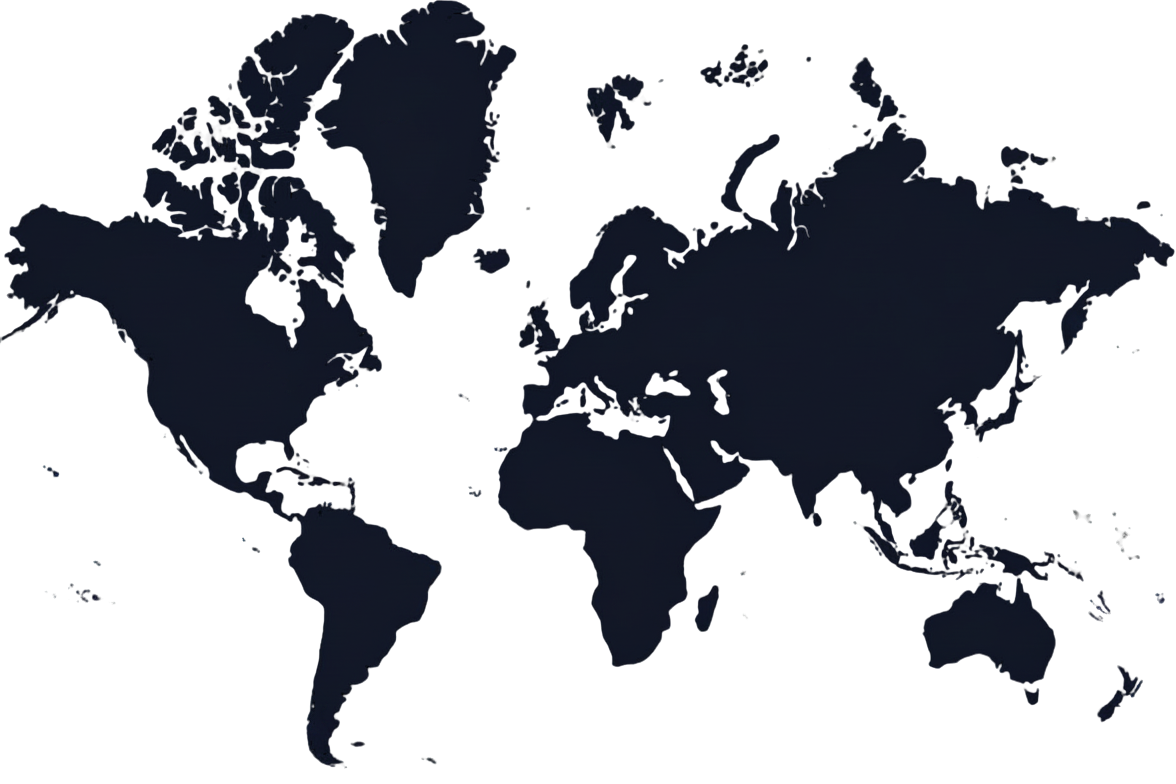
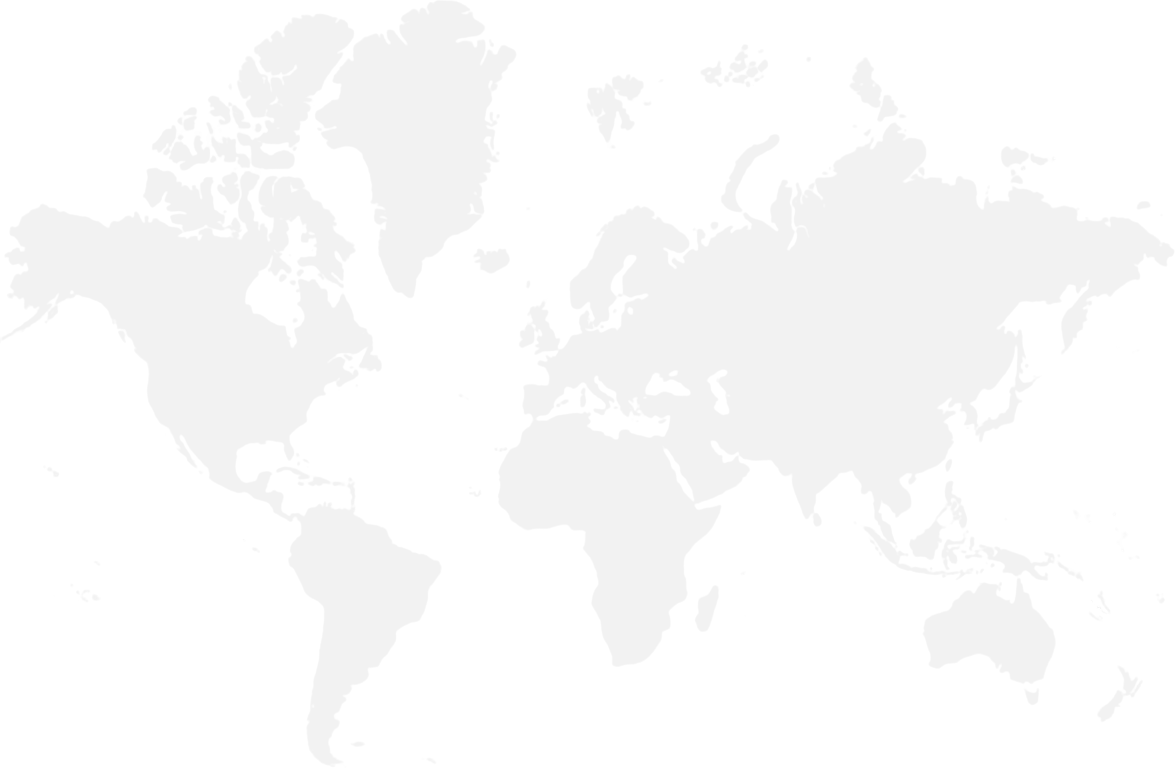
latest code

diff --git a/src/app/pages/historian/historian.component.html b/src/app/pages/historian/historian.component.html
@@ -166,33 +166,6 @@
                         <div class="feat-list">
                             <div class="feat-item" data-aos="fade-left" data-aos-delay="100">
                                 <div class="feat-icon">
-                                    <svg viewBox="0 0 24 24" fill="none" xmlns="http://www.w3.org/2000/svg"><path d="M12 2L2 7l10 5 10-5-10-5zM2 17l10 5 10-5M2 12l10 5 10-5" stroke="currentColor" stroke-width="1.5" stroke-linecap="round" stroke-linejoin="round"/></svg>
-                                </div>
-                                <div class="feat-content">
-                                    <span class="feat-label">Connectivity Protocol</span>
-                                    <p>OPC UA. Classic OPC, Data Historian</p>
-                                </div>
-                            </div>
-                            <div class="feat-item" data-aos="fade-left" data-aos-delay="300">
-                                <div class="feat-icon">
-                                    <svg viewBox="0 0 24 24" fill="none" xmlns="http://www.w3.org/2000/svg"><path d="M9 7h6m0 10v-3m-3 3v-6m-3 6v-1m-6 1h18M5 21V5a2 2 0 012-2h10a2 2 0 012 2v16l-7-3-7 3z" stroke="currentColor" stroke-width="1.5" stroke-linecap="round" stroke-linejoin="round"/></svg>
-                                </div>
-                                <div class="feat-content">
-                                    <span class="feat-label">Utilize Existing Libraries </span>
-                                    <p>Tank Inventory, Heat Exchanger Duty, Unit Load Optimization, Antoine Equation, Volume To Mass Flow Conversion Etc.</p>
-                                </div>
-                            </div>
-                            <div class="feat-item" data-aos="fade-left" data-aos-delay="250">
-                                <div class="feat-icon">
-                                    <svg viewBox="0 0 24 24" fill="none" xmlns="http://www.w3.org/2000/svg"><path d="M13 10V3L4 14h7v7l9-11h-7z" stroke="currentColor" stroke-width="1.5" stroke-linecap="round" stroke-linejoin="round"/></svg>
-                                </div>
-                                <div class="feat-content">
-                                    <span class="feat-label">Multi Mode Operability:</span>
-                                    <p>Manual Or Auto</p>
-                                </div>
-                            </div>
-                            <div class="feat-item" data-aos="fade-left" data-aos-delay="100">
-                                <div class="feat-icon">
                                     <svg viewBox="0 0 24 24" fill="none" xmlns="http://www.w3.org/2000/svg"><path d="M4 4h16v4H4zM4 10h10v4H4zM4 16h16v4H4z" stroke="currentColor" stroke-width="1.5" stroke-linecap="round" stroke-linejoin="round"/></svg>
                                 </div>
                                 <div class="feat-content">

diff --git a/src/app/home/home.component.css b/src/app/home/home.component.css
@@ -1336,6 +1336,15 @@ p {
   border-radius: 8px;
   text-decoration: none;
   transition: all 0.3s ease;
+  border: none;
+  outline: none;
+  cursor: pointer;
+  border-radius: 999px;
+  display: inline-flex;
+  align-items: center;
+  gap: 8px;
+  box-shadow: 0 4px 14px rgba(249, 115, 22, 0.45);
+  opacity: 0.95;
 }
 
 .btn-primary-cta:hover {
@@ -1357,7 +1366,13 @@ p {
   border-radius: 8px;
   text-decoration: none;
   transition: all 0.3s ease;
-  width: 215px;
+  width: 225px;
+  cursor: pointer;
+  border-radius: 999px;
+  display: inline-flex;
+  align-items: center;
+  gap: 8px;
+  opacity: 0.95;
 }
 
 .btn-outline-cta:hover {
@@ -1520,7 +1535,7 @@ p {
     width: 100%;
     background: #05c3dd;
     transform-origin: left;
-    animation: tabProgress 5s linear infinite;
+    animation: tabProgress 30s linear infinite;
   }
   @keyframes tabProgress {
     from { transform: scaleX(0); }
@@ -1540,6 +1555,56 @@ p {
     gap: 12px;
     flex: 1;
     min-height: 0;
+  }
+
+  /* ── ALARM DASHBOARD VIDEO LAYER ── */
+  .alarm-video-panel {
+    display: flex;
+    flex-direction: column;
+    gap: 10px;
+    flex: 1;
+    min-height: 0;
+    background: rgba(0,0,0,0.3);
+    border: 1px solid var(--border);
+    border-radius: 12px;
+    padding: 12px;
+  }
+  .alarm-video-title {
+    display: flex;
+    align-items: center;
+    gap: 8px;
+    font-family: Clarkson, "Helvetica", sans-serif;
+    font-size: 12px;
+    font-weight: 600;
+    letter-spacing: 0.5px;
+    color: #05c3dd;
+    flex-shrink: 0;
+  }
+  .alarm-live-dot {
+    width: 8px;
+    height: 8px;
+    border-radius: 50%;
+    background: #ff4444;
+    animation: alarmLivePulse 1.6s ease-out infinite;
+  }
+  @keyframes alarmLivePulse {
+    0%   { box-shadow: 0 0 0 0 rgba(255,68,68,0.55); }
+    70%  { box-shadow: 0 0 0 8px rgba(255,68,68,0); }
+    100% { box-shadow: 0 0 0 0 rgba(255,68,68,0); }
+  }
+  .alarm-video-wrap {
+    width: 100%;
+    aspect-ratio: 16 / 9;
+    border-radius: 8px;
+    overflow: hidden;
+    background: #000;
+    border: 1px solid rgba(8,131,149,0.25);
+  }
+  .alarm-dashboard-video {
+    width: 100%;
+    height: 100%;
+    object-fit: cover;
+    display: block;
   }
 
   /* ── MAP PANEL ── */
@@ -2843,7 +2908,7 @@ p {
    ═══════════════════════════════════════════════ */
 .testimonials-sec {
   padding: 50px 20px;
-  background: linear-gradient(180deg, #f5f5f5 0%, #ebebeb 100%);
+  background: var(--bg-section);
   overflow: hidden;
 }
 

diff --git a/src/app/home/home.component.html b/src/app/home/home.component.html
@@ -34,11 +34,14 @@
         </div>
               
         <div class="drill-tabs">
-          <button class="drill-tab" [class.active]="activeTab === 'overview'" (click)="switchTab('overview', $event)">
+          <!-- <button class="drill-tab" [class.active]="activeTab === 'overview'" (click)="switchTab('overview', $event)">
             National Overview
           </button>
           <button class="drill-tab" [class.active]="activeTab === 'plant'" (click)="switchTab('plant', $event)">
             Plant Level
+          </button> -->
+          <button class="drill-tab" [class.active]="activeTab === 'alarm'" (click)="switchTab('alarm', $event)">
+            Alarm Dashboard
           </button>
           <button class="drill-tab" [class.active]="activeTab === 'inverter'" (click)="switchTab('inverter', $event)">
             Inverter Detail
@@ -451,6 +454,20 @@
             </div>
           </div>
 
+        </div>
+
+
+        <div class="drill-layer" [class.active]="activeTab === 'alarm'" id="layer-alarm">
+          <div class="alarm-video-panel">
+            <div class="alarm-video-title">
+              <span class="alarm-live-dot"></span>Alarm Management Dashboard
+            </div>
+            <div class="alarm-video-wrap">
+              <video class="alarm-dashboard-video" autoplay muted loop playsinline>
+                <source src="assets/images/alarmsdashboard.mp4" type="video/mp4">
+              </video>
+            </div>
+          </div>
         </div>
 
       </div>

diff --git a/src/app/pages/products2/products2.component.css b/src/app/pages/products2/products2.component.css
@@ -525,7 +525,6 @@ ul.featured-checklist li:hover .check-icon {
 .features p {
     display: flex;
     align-items: center;
-    padding: 0px 10px;
 }
 
 /* .features li {
@@ -2171,6 +2170,12 @@ body.light-theme .portal-shared {
     color: #64748b;
 }
 
+#web-reporter .historian-diagram {
+    height: 500px !important;
+}
+#mobile-app .historian-diagram {
+    height: 400px !important;
+}
 /* ========================================
    ANIMATED HISTORIAN DIAGRAM (Operations Portal)
    ======================================== */
@@ -2178,7 +2183,7 @@ body.light-theme .portal-shared {
     position: relative;
     width: 100%;
     max-width: 560px;
-    height: 700px;
+    height: 620px;
     margin: 30px auto;
     display: flex;
     align-items: center;
@@ -2274,12 +2279,12 @@ body.light-theme .portal-shared {
 .h-card-title {
     font-size: 14px;
     font-weight: 700;
-    color: var(--accent);
+    color: rgba(var(--accent-rgb), 0.15);
     line-height: 1.25;
     max-width: 160px;
     margin-bottom: 5px;
     position: relative;
-    transition: text-shadow 0.3s ease;
+    transition: color 0.3s ease, text-shadow 0.3s ease;
 }
 
 .h-card-text {
@@ -2312,6 +2317,7 @@ body.light-theme .portal-shared {
 }
 
 .h-card:hover .h-card-title {
+    color: var(--accent);
     text-shadow: 0 0 20px rgba(var(--accent-rgb),0.35);
 }
 

diff --git a/src/app/pages/alarm/alarm.component.css b/src/app/pages/alarm/alarm.component.css
@@ -462,13 +462,18 @@ body.light-theme .deploy-subtitle {
     color: #64748b;
 }
 
-
+#change-mgnt .historian-diagram {
+    height: 400px !important;
+}
+#alrm-rationalization .historian-diagram {
+    height: 400px !important;
+}
 /* ===== Orbit diagram (ported for Key Advantages) ===== */
 .historian-diagram {
     position: relative;
     width: 100%;
     max-width: 560px;
-    height: 700px;
+    height: 500px;
     margin: 30px auto;
     display: flex;
     align-items: center;
@@ -564,12 +569,12 @@ body.light-theme .deploy-subtitle {
 .h-card-title {
     font-size: 14px;
     font-weight: 700;
-    color: var(--accent);
+    color: rgba(var(--accent-rgb), 0.15);
     line-height: 1.25;
     max-width: 160px;
     margin-bottom: 5px;
     position: relative;
-    transition: text-shadow 0.3s ease;
+    transition: color 0.3s ease, text-shadow 0.3s ease;
 }
 
 .h-card-text {
@@ -602,6 +607,7 @@ body.light-theme .deploy-subtitle {
 }
 
 .h-card:hover .h-card-title {
+    color: var(--accent);
     text-shadow: 0 0 20px rgba(var(--accent-rgb),0.35);
 }
 

diff --git a/src/app/home/home.component.ts b/src/app/home/home.component.ts
@@ -60,8 +60,8 @@ export class HomeComponent  implements OnInit, OnDestroy {
   private productionData: number[] = [];
 
   Math = Math;
-  activeTab: string = 'overview';
-  private readonly TAB_ORDER = ['overview', 'plant', 'inverter'];
+  activeTab: string = 'alarm';
+  private readonly TAB_ORDER = ['alarm', 'inverter'];
   kamudiMapUrl: SafeResourceUrl;
 
   // ── Capacity (monthly) ──
@@ -104,8 +104,8 @@ export class HomeComponent  implements OnInit, OnDestroy {
       this.refreshMonthlyCapacity();
     });
 
-    // Auto-rotate tabs every 5s
-    this.tabRotateSubscription = interval(5000).subscribe(() => {
+    // Auto-rotate tabs every 30s
+    this.tabRotateSubscription = interval(30000).subscribe(() => {
       const idx = this.TAB_ORDER.indexOf(this.activeTab);
       this.activeTab = this.TAB_ORDER[(idx + 1) % this.TAB_ORDER.length];
     });

diff --git a/src/app/pages/documentation/documentation.component.css b/src/app/pages/documentation/documentation.component.css
@@ -337,7 +337,7 @@ body.light-theme .deploy-subtitle {
     position: relative;
     width: 100%;
     max-width: 560px;
-    height: 700px;
+    height: 500px;
     margin: 30px auto;
     display: flex;
     align-items: center;
@@ -433,12 +433,12 @@ body.light-theme .deploy-subtitle {
 .h-card-title {
     font-size: 14px;
     font-weight: 700;
-    color: var(--accent);
+    color: rgba(var(--accent-rgb), 0.15);
     line-height: 1.25;
     max-width: 160px;
     margin-bottom: 5px;
     position: relative;
-    transition: text-shadow 0.3s ease;
+    transition: color 0.3s ease, text-shadow 0.3s ease;
 }
 
 .h-card-text {
@@ -471,6 +471,7 @@ body.light-theme .deploy-subtitle {
 }
 
 .h-card:hover .h-card-title {
+    color: var(--accent);
     text-shadow: 0 0 20px rgba(var(--accent-rgb),0.35);
 }
 

diff --git a/src/app/pages/products1/products1.component.css b/src/app/pages/products1/products1.component.css
@@ -295,12 +295,12 @@ ul.circle-checkmark {
 .h-card-title {
     font-size: 14px;
     font-weight: 700;
-    color: var(--accent);
+    color: rgba(var(--accent-rgb), 0.15);
     line-height: 1.25;
     max-width: 160px;
     margin-bottom: 5px;
     position: relative;
-    transition: text-shadow 0.3s ease;
+    transition: color 0.3s ease, text-shadow 0.3s ease;
 }
 
 .h-card-text {
@@ -334,6 +334,7 @@ ul.circle-checkmark {
 }
 
 .h-card:hover .h-card-title {
+    color: var(--accent);
     text-shadow: 0 0 20px rgba(var(--accent-rgb),0.35);
 }
 
@@ -772,7 +773,6 @@ ul.circle-checkmark {
 .features p {
     display: flex;
     align-items: center;
-    padding: 0px 10px;
 }
 
 /* .features li {

diff --git a/src/app/pages/products3/products3.component.css b/src/app/pages/products3/products3.component.css
@@ -726,7 +726,6 @@ ul.featured-checklist li:hover .check-icon {
 .features p {
     display: flex;
     align-items: center;
-    padding: 0px 10px;
 }
 
 /* .features li {

diff --git a/src/app/pages/products4/products4.component.css b/src/app/pages/products4/products4.component.css
@@ -726,7 +726,6 @@ ul.featured-checklist li:hover .check-icon {
 .features p {
     display: flex;
     align-items: center;
-    padding: 0px 10px;
 }
 
 /* .features li {

diff --git a/src/app/pages/products5/products5.component.css b/src/app/pages/products5/products5.component.css
@@ -714,7 +714,6 @@ ul.featured-checklist li:hover .check-icon {
 .features p {
     display: flex;
     align-items: center;
-    padding: 0px 10px;
 }
 
 /* .features li {

diff --git a/src/app/products/products.component.css b/src/app/products/products.component.css
@@ -116,7 +116,6 @@ h3 {
 .features p {
     display: flex;
     align-items: center;
-    padding: 0px 10px;
 }
 
 .features li {
